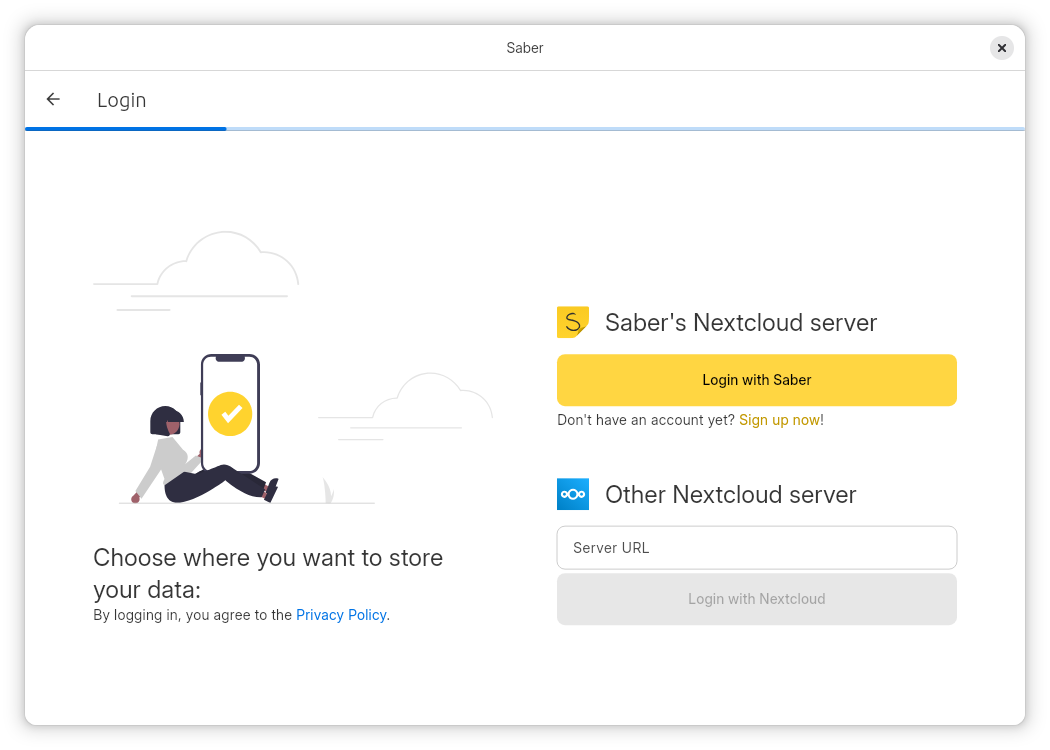
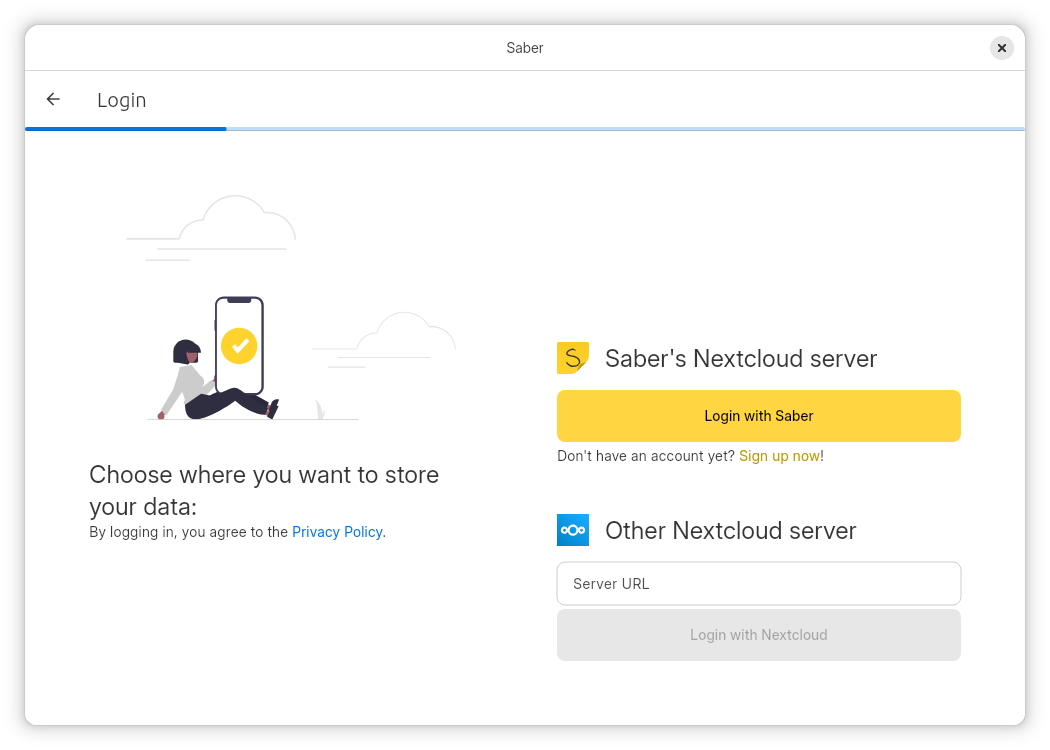
tweak: realign cols in NcLoginStep

Changed region(s): [[0.5181, 0.3987, 0.9143, 0.8587], [0.0914, 0.368, 0.4267, 0.828]]

diff --git a/lib/components/nextcloud/nc_login_step.dart b/lib/components/nextcloud/nc_login_step.dart
@@ -79,34 +79,47 @@ class NcLoginStep extends HookWidget {
     final shouldUseTwoColumns = _shouldUseTwoColumns(screenSize);
     if (shouldUseTwoColumns) {
       return Center(
-        child: Row(
-          mainAxisAlignment: .center,
-          crossAxisAlignment: .end,
-          spacing: 64,
-          children: [
-            const SizedBox(width: _width, child: _Header()),
-            SizedBox(
-              width: _width,
-              child: Column(
-                mainAxisSize: .min,
-                spacing: 48,
-                children: [
-                  _LoginWithSaber(
-                    login: () => loginFlow.value = _createLoginFlow(
-                      context,
-                      NextcloudClientExtension.defaultNextcloudUri,
-                    ),
+        child: Padding(
+          padding: const .all(64),
+          child: SizedBox(
+            width: _width * 3,
+            child: Row(
+              mainAxisAlignment: .center,
+              crossAxisAlignment: .end,
+              spacing: 64,
+              children: [
+                const Expanded(
+                  child: Column(
+                    mainAxisSize: .min,
+                    children: [
+                      _Header(),
+                      Flexible(child: SizedBox(height: _width / 2)),
+                    ],
                   ),
-                  _LoginWithNextcloud(
-                    login: (url) => loginFlow.value = _createLoginFlow(
-                      context,
-                      Uri.parse(url),
-                    ),
+                ),
+                Expanded(
+                  child: Column(
+                    mainAxisSize: .min,
+                    spacing: 48,
+                    children: [
+                      _LoginWithSaber(
+                        login: () => loginFlow.value = _createLoginFlow(
+                          context,
+                          NextcloudClientExtension.defaultNextcloudUri,
+                        ),
+                      ),
+                      _LoginWithNextcloud(
+                        login: (url) => loginFlow.value = _createLoginFlow(
+                          context,
+                          Uri.parse(url),
+                        ),
+                      ),
+                    ],
                   ),
-                ],
-              ),
+                ),
+              ],
             ),
-          ],
+          ),
         ),
       );
     } else {
@@ -177,7 +190,7 @@ class const _HeaderImage() extends StatelessWidget {
     if (screenSize.height < 500) return const SizedBox();
 
     final maxHeight = _shouldUseTwoColumns(screenSize)
-        ? screenSize.height * 0.5
+        ? screenSize.height * 0.3
         : screenSize.height * 0.25;
 
     return Padding(
@@ -385,7 +398,7 @@ class const _FakeDoneButton({required final Widget child}) extends HookWidget {
 }
 
 bool _shouldUseTwoColumns(Size screenSize) {
-  const minWidthForTwoColumns = _width * 2 + 64;
+  const minWidthForTwoColumns = _width * 2;
   const minHeightForTwoColumns = _width * 1.5;
   return screenSize.width > minWidthForTwoColumns &&
       screenSize.height > minHeightForTwoColumns;
